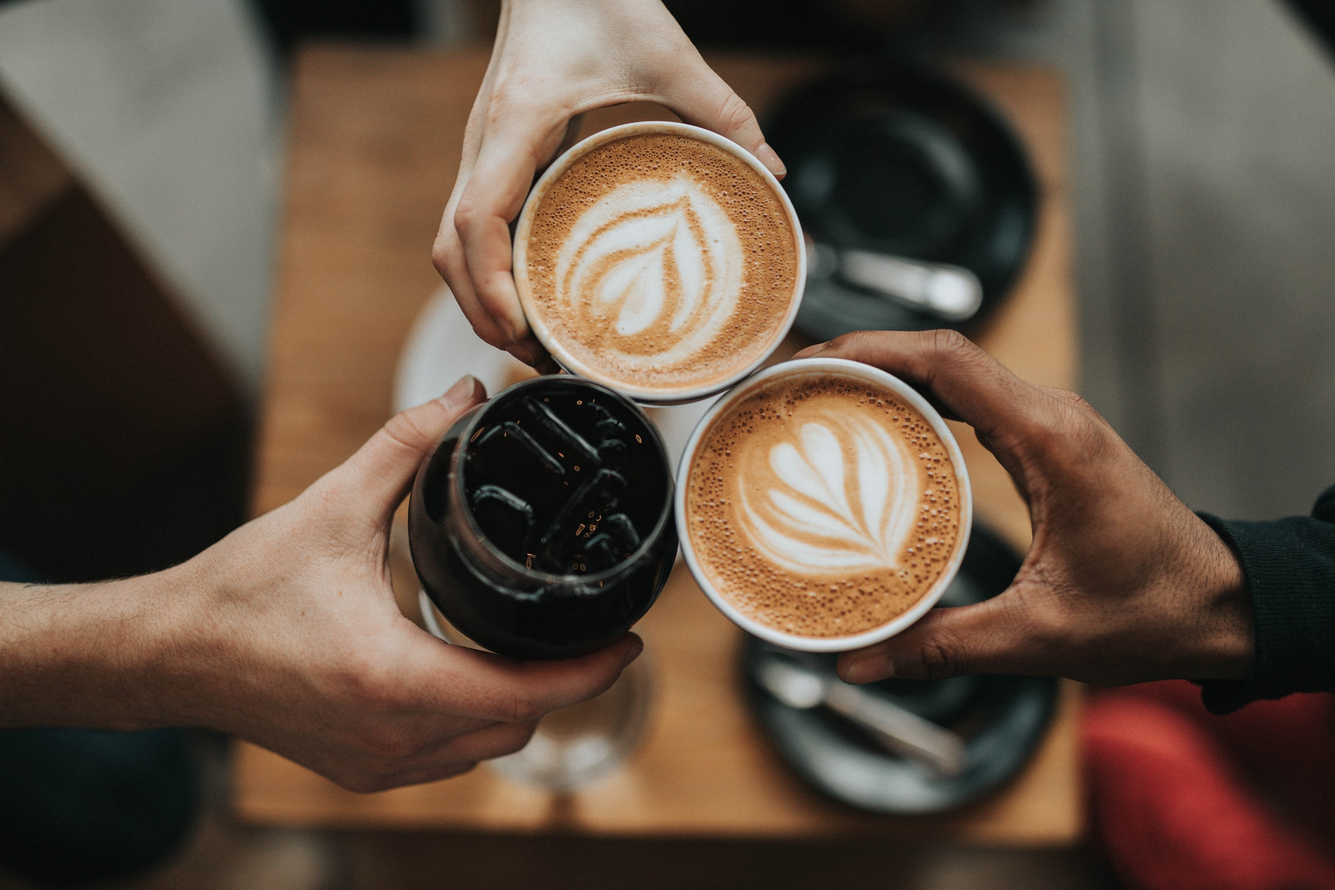
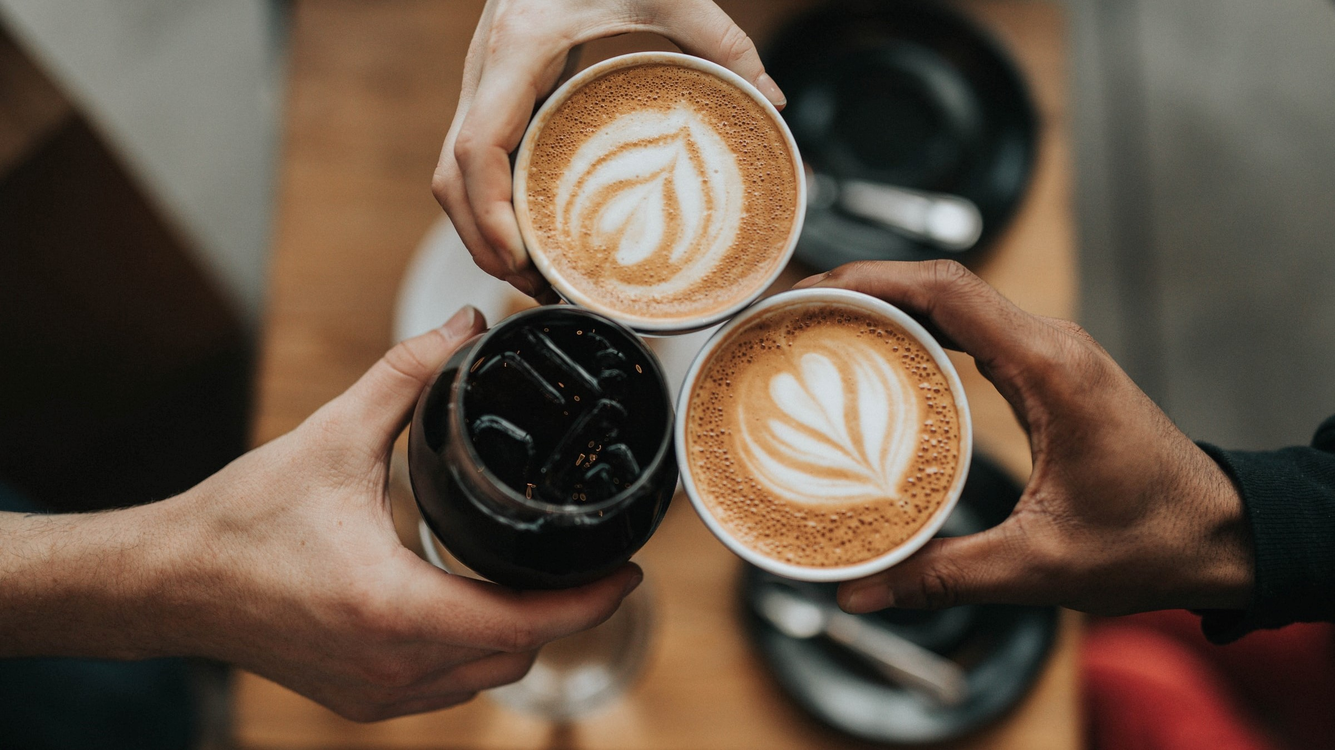
fixed image ratio

diff --git a/css/styles.css b/css/styles.css
@@ -20,7 +20,7 @@ header .navbar {
     background-position: center right;
     z-index: 0;
     margin: 0;
-    height: 500px;
+    height: 400px;
     width: auto; }
   .img-row .img-description {
     background-color: white;
@@ -74,31 +74,17 @@ footer {
     margin: 100px;
     width: auto;
     padding: 0 50px; }
-  .img-row {
-    justify-content: center;
-    align-items: center; }
-    .img-row .img-content {
-      background-size: cover;
-      background-position: center right;
-      z-index: 0;
-      margin: 0;
-      height: 500px;
-      width: auto; }
-    .img-row .img-description {
-      height: 350px;
-      background-color: lightgray;
-      padding: 50px;
-      z-index: 10; }
-    .img-row .img-right {
-      position: relative;
-      left: 50px; }
-    .img-row .img-left {
-      position: relative;
-      right: 50px; }
-    .img-row .img1 {
-      background-image: url(../img/latte.jpg); }
-    .img-row .img2 {
-      background-image: url(../img/madlatte.jpg); }
+  .img-row .img-content {
+    height: 500px; }
+  .img-row .img-description {
+    height: 350px;
+    background-color: lightgray; }
+  .img-row .img-right {
+    position: relative;
+    left: 50px; }
+  .img-row .img-left {
+    position: relative;
+    right: 50px; }
   .row .contact {
     padding-left: 50px;
     box-sizing: border-box; }
@@ -106,29 +92,4 @@ footer {
     padding: 0 50px;
     width: auto; }
   #contact-form {
-    padding-right: 50px; }
-    #contact-form > div {
-      padding: 5px; }
-    #contact-form input,
-    #contact-form textarea,
-    #contact-form button {
-      width: 100%;
-      border: none;
-      border-bottom: 1px solid black; }
-      #contact-form input:hover,
-      #contact-form textarea:hover,
-      #contact-form button:hover {
-        border: 1px solid black;
-        border-radius: 3px; }
-    #contact-form input {
-      height: 40px; }
-    #contact-form textarea {
-      height: 120px; }
-    #contact-form button {
-      height: 50px; }
-  footer {
-    text-align: center; }
-    footer div {
-      margin: 10px; }
-    footer p {
-      font-size: 12px; } }
+    padding-right: 50px; } }

diff --git a/css/styles.scss b/css/styles.scss
@@ -27,7 +27,7 @@ header {
     }
     z-index: 0;
     margin: 0;
-    height: 500px;
+    height: 400px;
     width: auto;
   }
   .img-description {
@@ -100,23 +100,12 @@ footer {
   }
 
   .img-row {
-    justify-content: center;
-    align-items: center;
     .img-content {
-      background : {
-        size: cover;
-        position: center right;
-      }
-      z-index: 0;
-      margin: 0;
       height: 500px;
-      width: auto;
     }
     .img-description {
       height: 350px;
       background-color: lightgray;
-      padding: 50px;
-      z-index: 10;
     }
     .img-right {
       position: relative;
@@ -125,12 +114,6 @@ footer {
     .img-left {
       position: relative;
       right: 50px;
-    }
-    .img1 {
-      background-image: url(../img/latte.jpg);
-    }
-    .img2 {
-      background-image: url(../img/madlatte.jpg);
     }
   }
 
@@ -145,39 +128,5 @@ footer {
   }
   #contact-form {
     padding-right: 50px;
-    & > div {
-      padding: 5px;
-    }
-    input,
-    textarea,
-    button {
-      width: 100%;
-      border: none;
-      border-bottom: 1px solid black;
-
-      &:hover {
-        border: 1px solid black;
-        border-radius: 3px;
-      }
-    }
-    input {
-      height: 40px;
-    }
-    textarea {
-      height: 120px;
-    }
-    button {
-      height: 50px;
-    }
-  }
-
-  footer {
-    text-align: center;
-    div {
-      margin: 10px;
-    }
-    p {
-      font-size: 12px;
-    }
   }
 }
